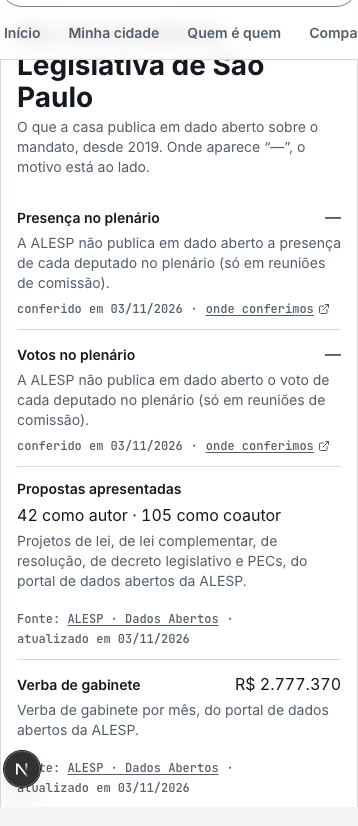
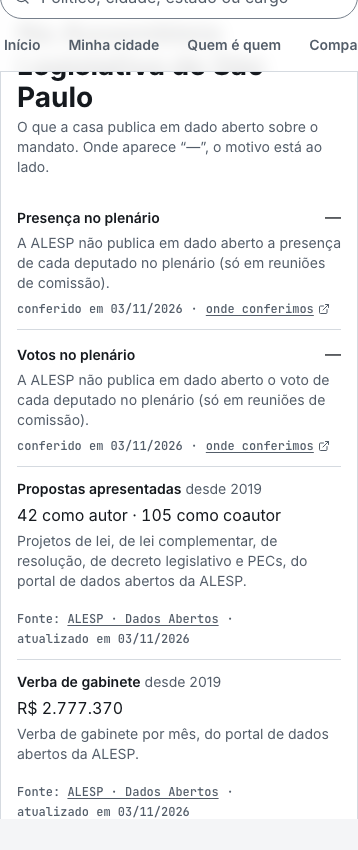
w3a: crachá estadual diz o período de cada número (MG verba desde 2023), e2e de MG, metadado das fontes novas em /atualizacoes e capturas finais

Changed region(s): [[0.0, 0.2421, 0.9525, 0.9685], [0.0, 0.0, 1.0, 0.2119], [0.9218, 0.3935, 0.9525, 0.4237]]

diff --git a/web/e2e/w3a-assembleias.spec.ts b/web/e2e/w3a-assembleias.spec.ts
@@ -65,6 +65,19 @@ test.describe("W3-A · Assembleias no crachá", () => {
     await axe();
   });
 
+  test("W3A-H5 estadual de MG: proposições e verba indenizatória da ALMG com fonte e data", async ({ page, axe }) => {
+    await page.goto("/p/beatriz-cerqueira");
+    const sec = page.locator("#assembleia");
+    await expect(sec.getByRole("heading", { level: 2 })).toHaveText("Na Assembleia Legislativa de Minas Gerais");
+    await expect(sec.locator("li[data-dataset=propostas] [data-testid=assembleia-valor]")).toHaveText(/^\d[\d.]* como autora · \d[\d.]* como coautora$/);
+    await expect(sec.locator("li[data-dataset=gastos_gabinete] [data-testid=assembleia-valor]")).toHaveText(/^R\$\s?[\d.]+$/);
+    await expect(sec.locator("li[data-dataset=gastos_gabinete]").getByText("Fonte:").locator("..")).toContainText("ALMG");
+    await expect(sec.locator("li[data-dataset=votos]")).toContainText("A ALMG não publica em dado aberto");
+    await page.goto("/p/beatriz-cerqueira?ano=2025");
+    await expect(page.locator("#gastos").getByRole("heading", { level: 2 })).toContainText("R$ 272.835");
+    await axe();
+  });
+
   test("W3A-H3 tema escuro sem violação do axe", async ({ page, axe }) => {
     await page.emulateMedia({ colorScheme: "dark" });
     await page.goto(SP);
@@ -75,12 +88,17 @@ test.describe("W3-A · Assembleias no crachá", () => {
   test("W3A-H4 /dados-abertos e /atualizacoes mostram a ALESP como lida", async ({ page, axe }) => {
     await page.goto("/dados-abertos");
     const sec = page.getByTestId("assembleias");
-    await expect(sec.locator("li[data-uf=SP] li[data-dataset=propostas]")).toHaveAttribute("data-status", "no_site");
+    for (const uf of ["SP", "MG"]) {
+      await expect(sec.locator(`li[data-uf=${uf}] li[data-dataset=propostas]`)).toHaveAttribute("data-status", "no_site");
+      await expect(sec.locator(`li[data-uf=${uf}] li[data-dataset=gastos_gabinete]`)).toHaveAttribute("data-status", "no_site");
+      await expect(sec.locator(`li[data-uf=${uf}] li[data-dataset=presenca]`)).toHaveAttribute("data-status", "nao_publica");
+    }
     await expect(sec.getByTestId("assembleias-nao-lidas")).toContainText("Bahia");
     await expect(sec.getByTestId("assembleias-nao-lidas")).not.toContainText("São Paulo");
     await axe();
     await page.goto("/atualizacoes");
     await expect(page.locator("tr[data-source=alesp]")).toContainText("ALESP");
+    await expect(page.locator("tr[data-source=alemg]")).toContainText("ALMG");
   });
 
   test("W3A-E1 390 px sem rolagem horizontal no crachá estadual @mobile", async ({ page }) => {

diff --git a/web/src/lib/sources.ts b/web/src/lib/sources.ts
@@ -22,6 +22,12 @@ export const SOURCE_META: Record<string, SourceMeta> = {
     cadence: "uma vez por semana",
     maxAgeHours: 8 * 24,
   },
+  // W3-B (outro agente) criou estas fontes sem metadado; a cadência abaixo é meta editorial provisória (D113), ajustar se a rotina for outra
+  sapl: { brings: "vereadores de 6 capitais pelo SAPL: projetos com autoria, presença em sessão (sem porcentagem) e votos nominais", cadence: "uma vez por semana", maxAgeHours: 8 * 24 },
+  "bcb-sgs": { brings: "séries do Banco Central usadas em Governos (indicadores econômicos)", cadence: "uma vez por mês", maxAgeHours: 35 * 24 },
+  "ibge-sidra": { brings: "Contas Nacionais, IPCA e PNAD Contínua usados em Governos", cadence: "a cada divulgação do IBGE; conferimos uma vez por mês", maxAgeHours: 100 * 24 },
+  "receita-federal": { brings: "arrecadação das receitas federais (Impostos)", cadence: "uma vez por mês", maxAgeHours: 40 * 24 },
+  tcu: { brings: "lista de inabilitados para função pública (sem CPF no site)", cadence: "uma vez por mês", maxAgeHours: 35 * 24 },
   alemg: {
     brings: "deputados estaduais de MG: verba indenizatória por mês (valor reembolsado) e proposições (projetos de lei, de lei complementar, de resolução e PECs) com autoria. Presença e votos em plenário não são publicados em dado aberto",
     cadence: "uma vez por semana",
@@ -36,7 +42,7 @@ export const NOT_YET: { name: string; brings: string; why: string }[] = [
     brings: "deputados estaduais: presença, votos, propostas, verbas",
     why: "cada casa publica de um jeito; já lemos São Paulo e Minas Gerais. Rio de Janeiro e Rio Grande do Sul: não localizamos catálogo de dados abertos que permita leitura automática",
   },
-  { name: "Câmaras Municipais", brings: "vereadores: presença, votos, propostas", why: "mais de 900 sites diferentes, a lê-los um de cada vez" },
+  { name: "Câmaras Municipais (fora as 6 capitais lidas pelo SAPL)", brings: "vereadores: presença, votos, propostas", why: "mais de 900 sites diferentes, a lê-los um de cada vez" },
   { name: "Portal da Transparência (federal)", brings: "emendas parlamentares", why: "depende de chave de acesso que ainda não foi criada" },
   { name: "Tribunais de Contas", brings: "salário pago a prefeitos e vereadores", why: "fonte ainda não mapeada" },
 ];

diff --git a/web/src/app/p/[slug]/assembleia.tsx b/web/src/app/p/[slug]/assembleia.tsx
@@ -9,7 +9,8 @@ import { count, date, money } from "@/lib/format";
 
 const sentence = (t: string) => `${t.charAt(0).toUpperCase()}${t.slice(1)}${t.endsWith(".") ? "" : "."}`;
 
-export async function Assembly({ uf, stats, periodLabel, f }: { uf: string; stats: PeriodStats; periodLabel: string; f: boolean }) {
+/** since: rótulo do período de cada número ("desde 2023", "em 2025"): cada casa começa a carga num ano diferente. */
+export async function Assembly({ uf, stats, periodLabel, f, since }: { uf: string; stats: PeriodStats; periodLabel: string; f: boolean; since?: Partial<Record<AssemblyItem["dataset"], string>> }) {
   const info = await data.getAssembly(uf);
   if (!info) return null;
   const value = (it: AssemblyItem): string | null => {
@@ -27,7 +28,7 @@ export async function Assembly({ uf, stats, periodLabel, f }: { uf: string; stat
       title={`Na ${info.houseName}`}
       intro={
         info.read
-          ? `O que a casa publica em dado aberto sobre o mandato, ${periodLabel}. Onde aparece “—”, o motivo está ao lado.`
+          ? `O que a casa publica em dado aberto sobre o mandato. Onde aparece “—”, o motivo está ao lado.`
           : `O site ainda não lê os dados abertos desta casa. Nada abaixo é zero: é dado que não carregamos.`
       }
     >
@@ -37,7 +38,10 @@ export async function Assembly({ uf, stats, periodLabel, f }: { uf: string; stat
           return (
             <li key={it.dataset} className="flex flex-col gap-1 py-3" data-dataset={it.dataset} data-status={it.status}>
               <div className="flex flex-wrap items-baseline justify-between gap-x-4 gap-y-1">
-                <h3 className="text-sm font-semibold text-fg">{it.label}</h3>
+                <h3 className="text-sm font-semibold text-fg">
+                  {it.label}
+                  {v && since?.[it.dataset] && <span className="ml-1 font-normal text-muted">{since[it.dataset]}</span>}
+                </h3>
                 <p className="text-base tabular text-fg" data-testid="assembleia-valor">
                   {v ?? (
                     <span aria-label="não carregado" title={it.reason}>

diff --git a/web/src/app/p/[slug]/page.tsx b/web/src/app/p/[slug]/page.tsx
@@ -346,7 +346,7 @@ export default async function Page({ params, searchParams }: Props) {
         {council && <CityCouncil info={council} f={f} />}
         {assembly && placeUf && (
           <>
-            <Assembly uf={placeUf} stats={stats} periodLabel={periodLabel} f={f} />
+            <Assembly uf={placeUf} stats={stats} periodLabel={periodLabel} f={f} since={{ propostas: labelOf("proposalsPrincipal"), gastos_gabinete: labelOf("expensesCents") }} />
             {stampOf(assembly.items, "propostas") && (
               <Proposals personId={person.id} base={base} sp={sp} year={yearParam} f={f} stamp={stampOf(assembly.items, "propostas")!} onlyBills />
             )}
